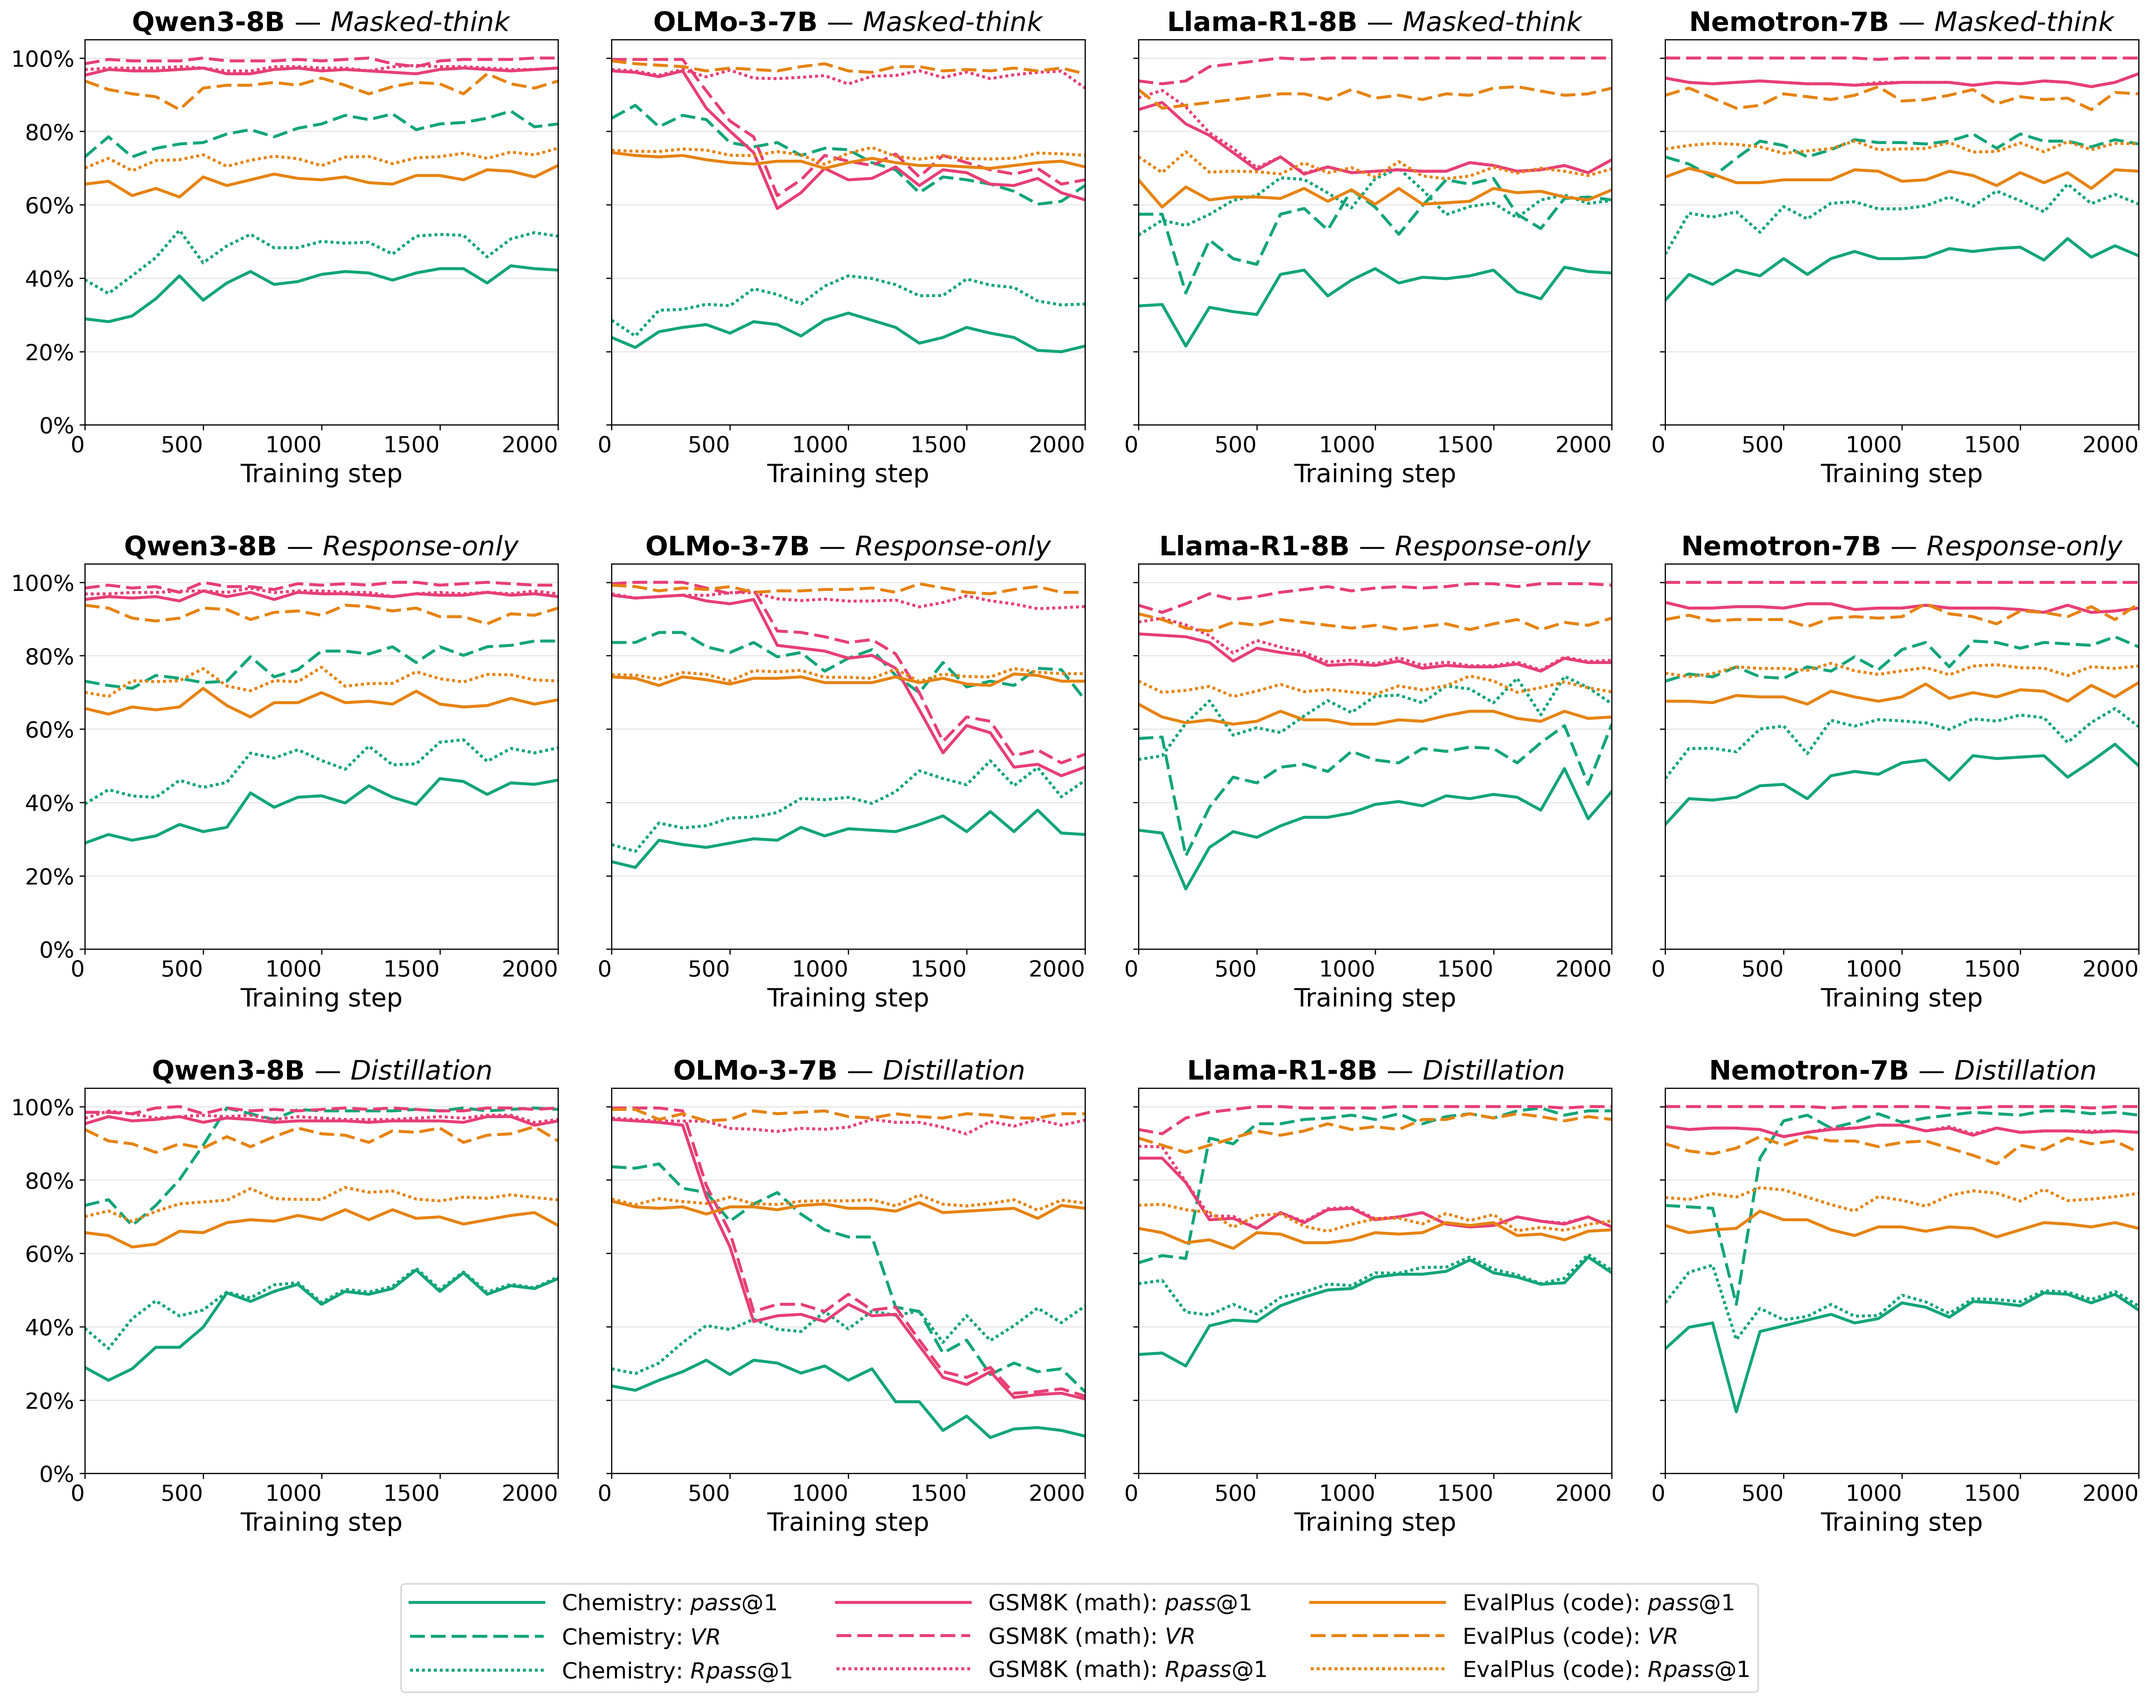
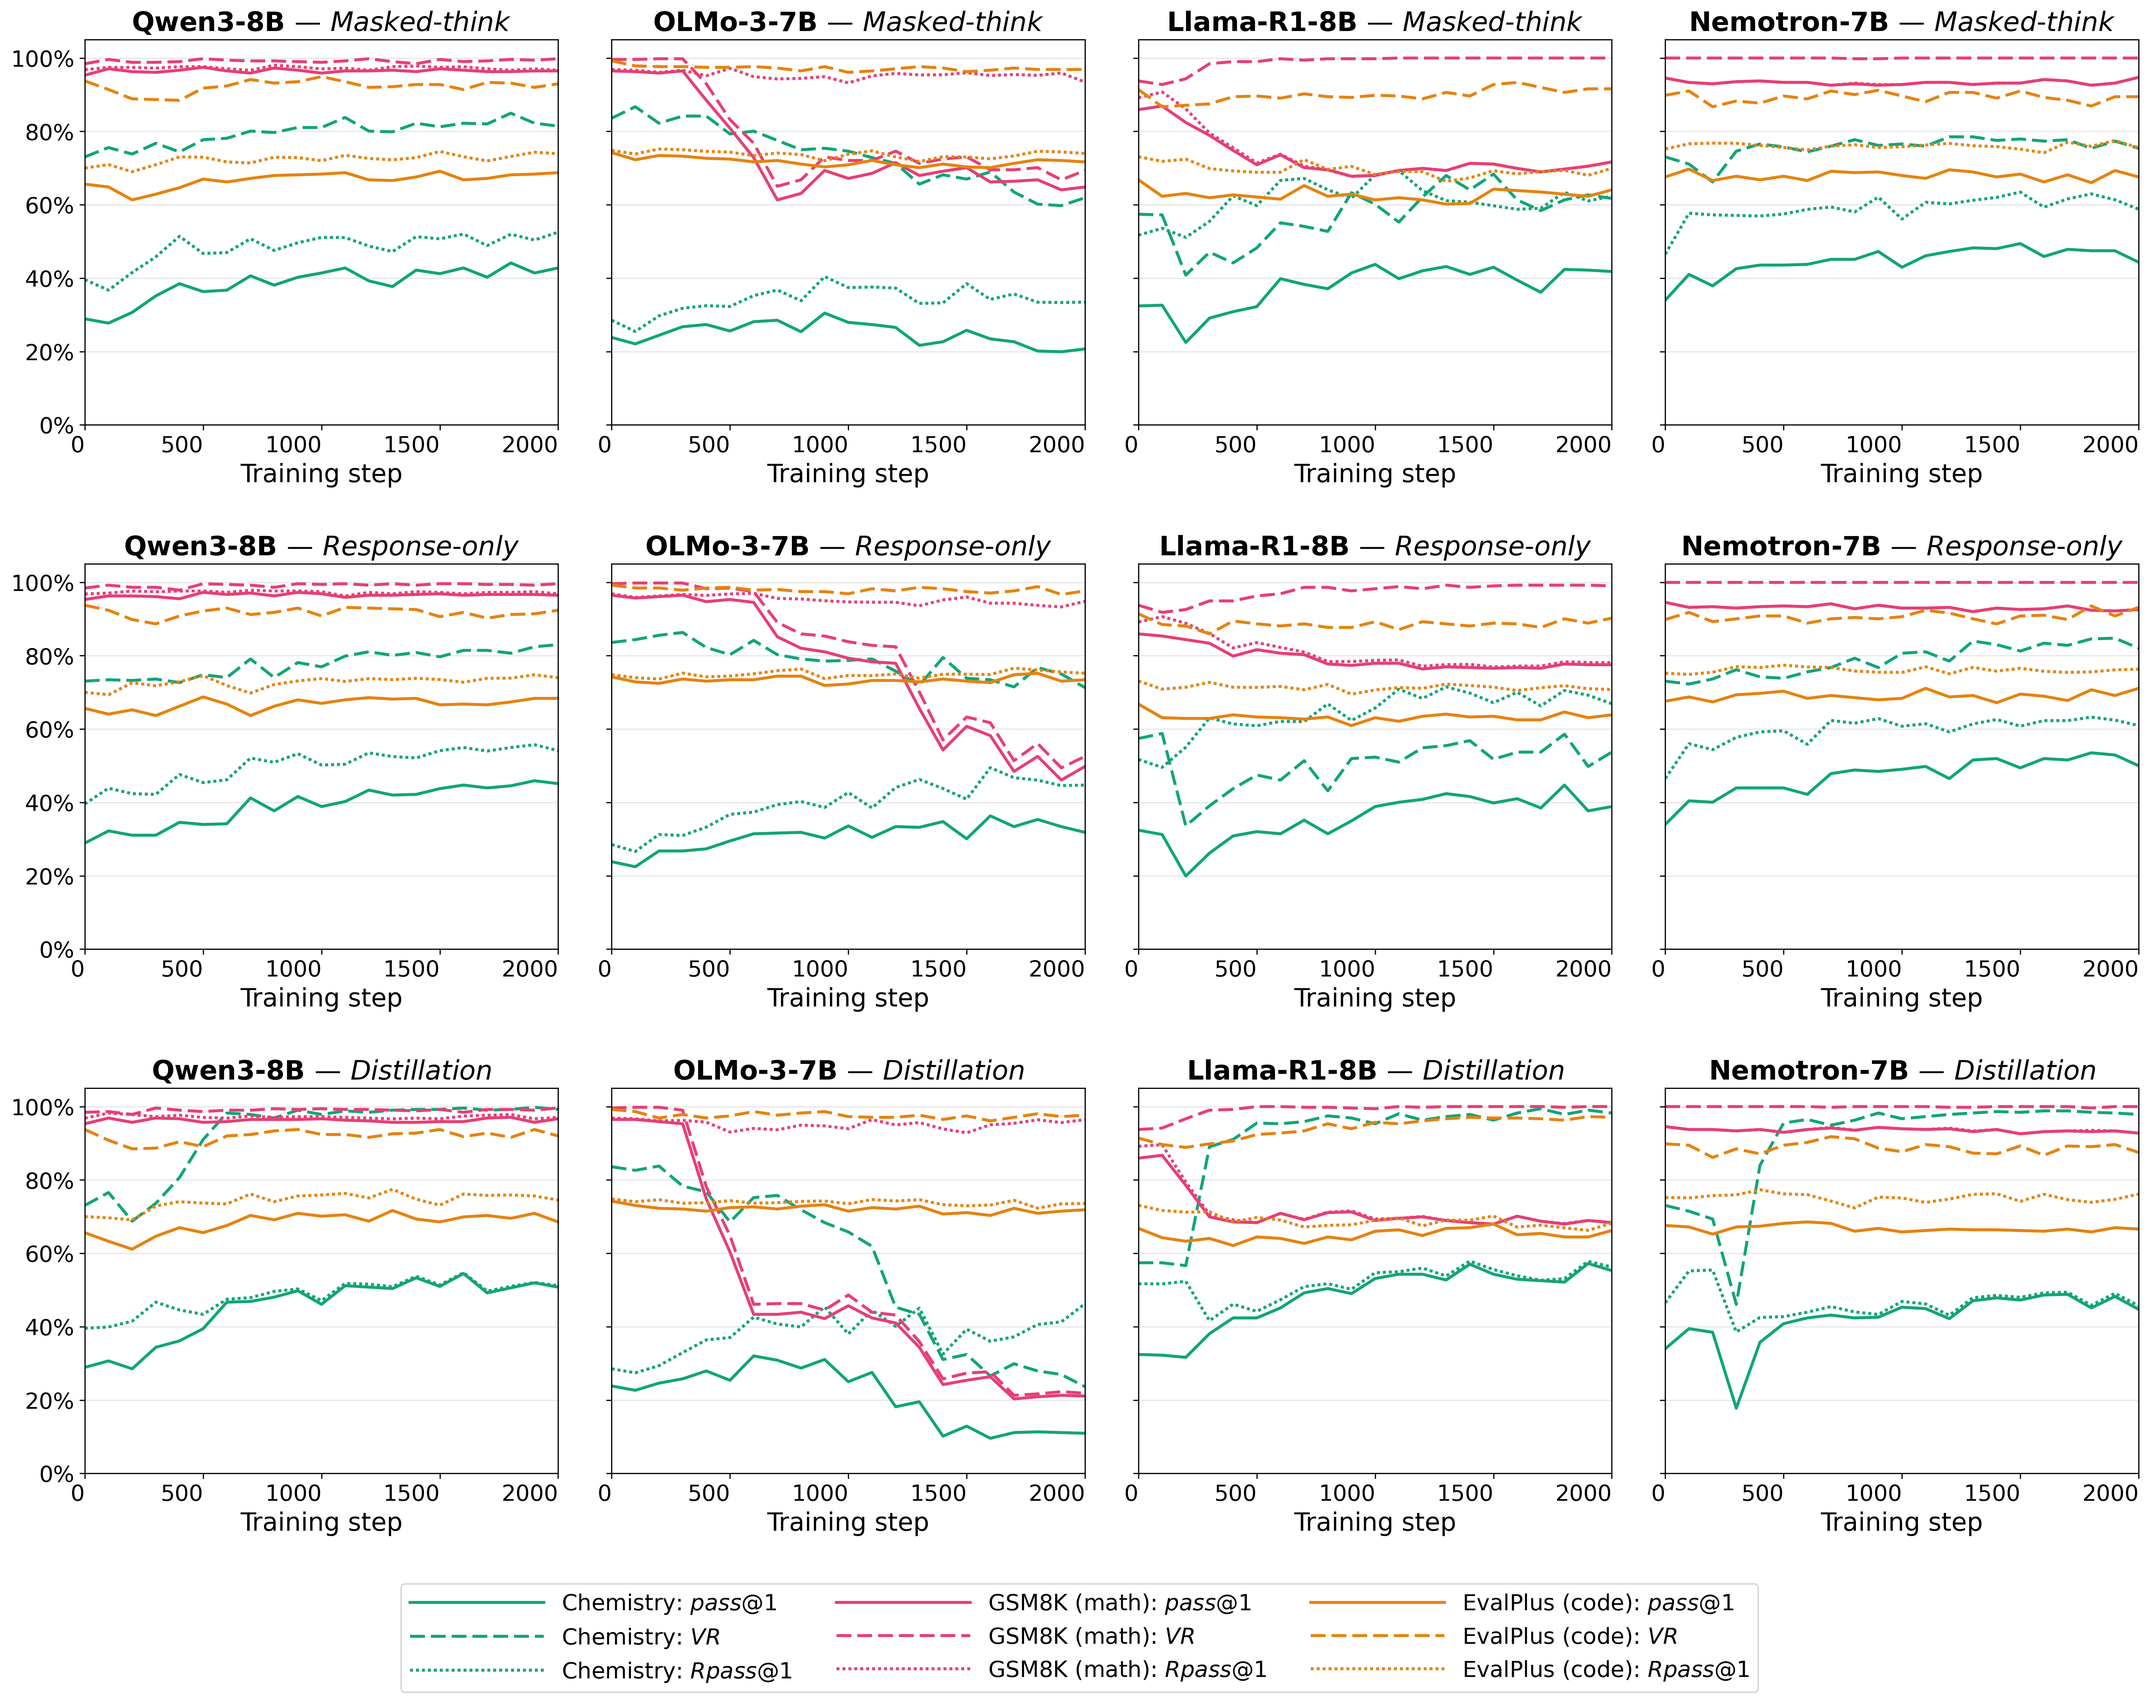
Bump figures.

diff --git a/study/README.md b/study/README.md
@@ -107,7 +107,7 @@ Training artefacts (the LoRA adapter) are saved to `output/<model>-<strategy>/ad
 | `--model` | required | HuggingFace model name or local path |
 | `--strategy` | `default` | Reasoning strategy (see table above) |
 | `--lr` | `1e-5` | Learning rate — the primary experimental variable |
-| `--seed` | `42` | Random seed |
+| `--seed` | `42` | Random seed, we use both `42` and `67` in our experiments |
 | `--output` | `output/<model>-<strategy>/` | Directory to save the adapter |
 | `--profile` | `default` | Hyperparameter profile in `config/train.yaml` |
 
